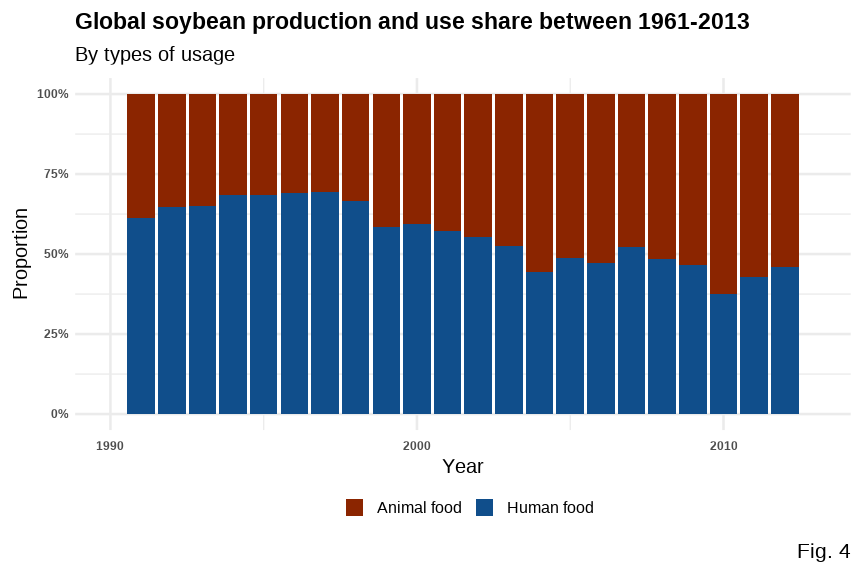
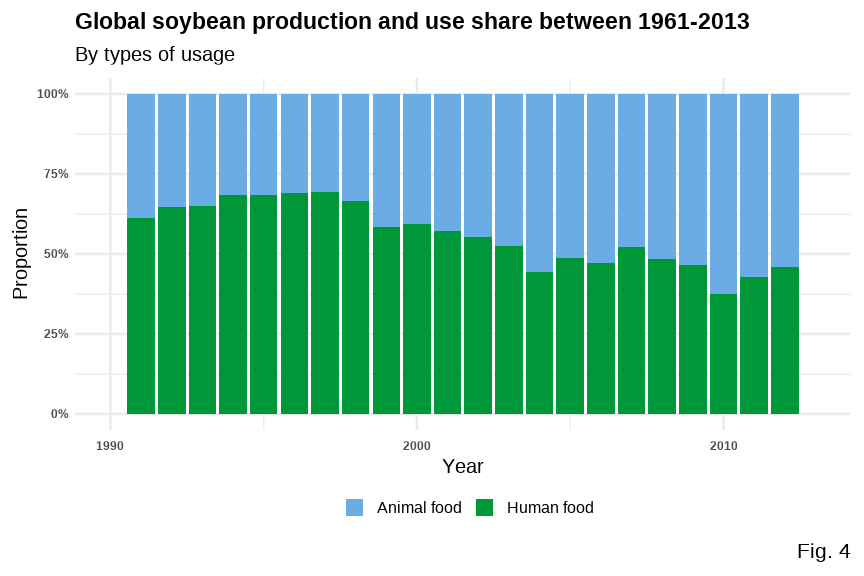
Intro + color edits

diff --git a/README.md b/README.md
@@ -30,15 +30,27 @@ information about the loss of Brazilian forest over time. The data
 further holds data about soybean production and vegetable oil production
 by year and country.
 
-The dataset has 5 elements: `forest`, `forest_area`, `brazil_loss`,
-`soybean_use`, and `vegetable_oil`. The set `forest` contains the change
-every 5 years in for forest area in conversion. `forest_area` contains
-the change in global forest area as a percent of global forest area.
-`brazil_loss` contains the loss of Brazilian forest due to specific
-types of deforestation, such as `fire` and `small_scale_clearing`.
-`soybean_use` contains the soybean production and use by year and by
-country. Finally, the set `vegetable_oil` contains vegetable oil
-production by crop type and year.
+Thre are 5 datasets we are working with: `forest`, `forest_area`,
+`brazil_loss`, `soybean_use`, and `vegetable_oil`. The set `forest`
+contains the change every 5 years in for forest area in conversion.
+`forest_area` contains the change in global forest area as a percent of
+global forest area. `brazil_loss` contains the loss of Brazilian forest
+due to specific types of deforestation, such as `fire` and
+`small_scale_clearing`. `soybean_use` contains the soybean production
+and use by year and by country. Finally, the set `vegetable_oil`
+contains vegetable oil production by crop type and year.
+
+What we want to explore in the following visualizations is which
+countries are seeing the most deforestation within their borders, and to
+understand the causes of this deforestation. After initially looking at
+a line plot and seeing that Brazil has faced notably high levels of
+deforestation, we will look at the following.
+
+-   Brazil’s cumulative forest loss 2000-20113
+-   Causes of forest loss in Brazil
+-   Top global consumers of soybeans
+-   Global soybean use proportions over time
+-   Total global net forest conversion
 
 ## What countries are seeing the most deforestation within their borders, and what is causing this deforestation?
 
@@ -159,7 +171,7 @@ brazil_loss_no_total <- brazil_loss_no_total %>%
 
 ggplot(brazil_loss_no_total, aes(year, percentage, fill = cause)) +
   geom_area(alpha = 0.9) +
-  scale_fill_manual(values = c("#E69F00", "#56B4E9", "#CC79A7", "black", "#0072B2", "#D55E00")) +
+  scale_fill_manual(values = c("#6CACE4", "lightgoldenrod", "#EE1C25", "#0A3161", "#009739", "gray")) +
   scale_y_continuous(labels = scales::percent) +
   labs(
     x = NULL, y = NULL, title = "Causes of loss of forest in Brazil", fill = NULL,
@@ -314,8 +326,7 @@ use_prop %>%
     name = "Proportion",
     labels = c("0%", "25%", "50%", "75%", "100%")
   ) +
-  scale_fill_manual(
-    values = c("orangered4", "dodgerblue4"), 
+  scale_fill_manual(values = c("#6CACE4", "#009739"),
     name = NULL, labels = c("Animal food", "Human food")
   ) +
   labs(
